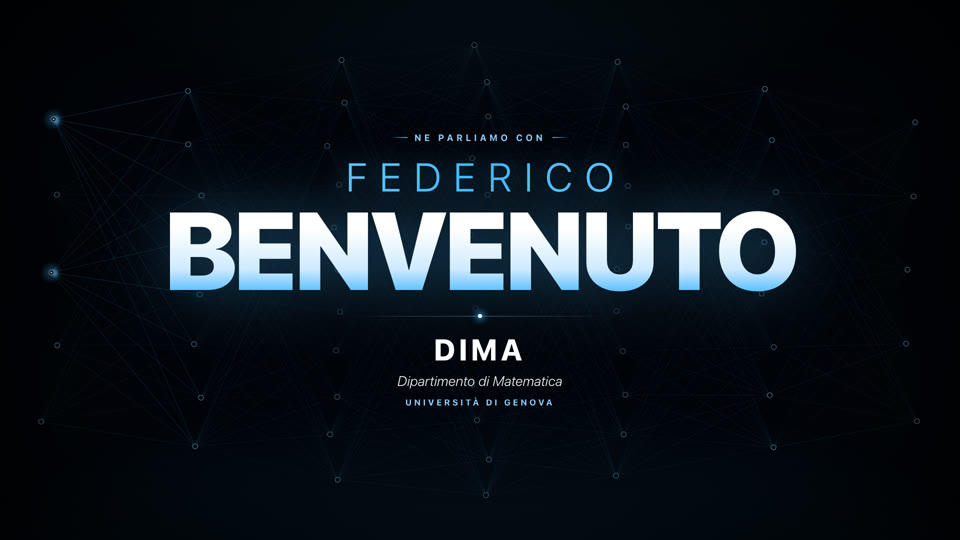
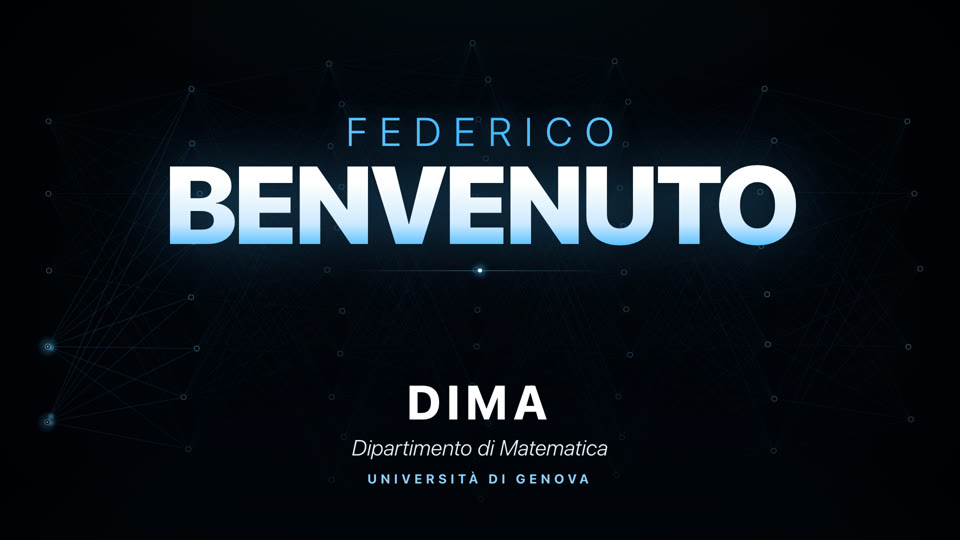
fix: slide intervistati senza occhiello, afferenza in basso e più grande
Tolto «Ne parliamo con»; il nome sale e dipartimento, nome per esteso e
università passano in basso, più grandi, su un fondo scurito che tiene la
rete neurale lontana dal testo. Anteprime aggiornate.

diff --git a/ospite.html b/ospite.html
@@ -20,7 +20,9 @@
     #sky { position: absolute; inset: 0; width: 100%; height: 100%; display: block; }
     .scrim {
       position: absolute; inset: 0; pointer-events: none;
-      background: radial-gradient(50% 44% at 50% 50%, rgba(2,4,11,0.86) 0%, rgba(2,4,11,0.5) 55%, rgba(2,4,11,0) 100%);
+      background:
+        radial-gradient(50% 40% at 50% 38%, rgba(2,4,11,0.86) 0%, rgba(2,4,11,0.5) 55%, rgba(2,4,11,0) 100%),
+        radial-gradient(55% 30% at 50% 84%, rgba(2,4,11,0.92) 0%, rgba(2,4,11,0.6) 55%, rgba(2,4,11,0) 100%);
     }
     .vignette { position: absolute; inset: 0; pointer-events: none; box-shadow: inset 0 0 260px 80px rgba(0,0,0,0.75); }
 
@@ -28,21 +30,12 @@
       position: absolute; inset: 0; z-index: 3;
       display: flex; flex-direction: column; align-items: center; justify-content: center;
       text-align: center; padding: 0 clamp(16px, 4vw, 60px);
+      padding-bottom: clamp(140px, 26vh, 300px);          /* il nome sale, l'afferenza sta in basso */
     }
     @keyframes rise {
       from { opacity: 0; transform: translateY(24px); filter: blur(6px); }
       to   { opacity: 1; transform: translateY(0); filter: blur(0); }
     }
-
-    .eyebrow {
-      display: inline-flex; align-items: center; gap: 14px;
-      font-size: clamp(13px, 1.1vw, 18px); font-weight: 700; letter-spacing: 0.36em;
-      text-transform: uppercase; color: var(--accent-soft);
-      margin-bottom: clamp(18px, 3vh, 34px);
-      animation: rise 0.9s 0.1s cubic-bezier(0.16,1,0.3,1) both;
-    }
-    .eyebrow::before, .eyebrow::after { content: ''; width: 34px; height: 2px; background: linear-gradient(90deg, transparent, var(--accent)); }
-    .eyebrow::after { background: linear-gradient(90deg, var(--accent), transparent); }
 
     .who { margin: 0; line-height: 0.88; }
     .who .first {
@@ -84,25 +77,30 @@
     @keyframes grow { from { opacity: 0; transform: scaleX(0.2); } to { opacity: 1; transform: scaleX(1); } }
     @keyframes pulse { 0%,100% { opacity: 0.55; } 50% { opacity: 1; } }
 
+    /* ---------- Afferenza, in basso ---------- */
+    .aff {
+      position: absolute; left: 0; right: 0; bottom: clamp(56px, 10vh, 120px); z-index: 3;
+      text-align: center; padding: 0 clamp(16px, 4vw, 60px);
+    }
     .dept {
-      font-size: clamp(30px, 3.4vw, 60px); font-weight: 800; letter-spacing: 0.12em;
+      font-size: clamp(44px, 5vw, 96px); font-weight: 800; letter-spacing: 0.12em; line-height: 1;
       color: #fff; text-transform: uppercase;
       animation: rise 1s 1s cubic-bezier(0.16,1,0.3,1) both;
     }
     .dept-full {
-      margin-top: clamp(6px, 1vh, 12px);
-      font-size: clamp(16px, 1.6vw, 28px); font-weight: 300; font-style: italic; color: #e6ecf5;
+      margin-top: clamp(10px, 1.6vh, 18px);
+      font-size: clamp(20px, 2.3vw, 44px); font-weight: 300; font-style: italic; color: #e6ecf5;
       animation: rise 1s 1.15s cubic-bezier(0.16,1,0.3,1) both;
     }
     .uni {
-      margin-top: clamp(10px, 1.6vh, 18px);
-      font-size: clamp(12px, 1vw, 17px); font-weight: 700; letter-spacing: 0.3em;
+      margin-top: clamp(12px, 2vh, 24px);
+      font-size: clamp(15px, 1.45vw, 26px); font-weight: 700; letter-spacing: 0.3em;
       text-transform: uppercase; color: var(--accent-soft);
       animation: rise 1s 1.3s cubic-bezier(0.16,1,0.3,1) both;
     }
 
     @media (prefers-reduced-motion: reduce) {
-      .content *, .content *::after { animation: none !important; }
+      .content *, .content *::after, .aff * { animation: none !important; }
     }
 
     @media (max-aspect-ratio: 1/1) {
@@ -119,9 +117,11 @@
     <div class="vignette"></div>
 
     <div class="content">
-      <div class="eyebrow" id="eyebrow"></div>
       <h1 class="who"><span class="first" id="first"></span><span class="last" id="last"></span></h1>
       <div class="divider"></div>
+    </div>
+
+    <div class="aff">
       <div class="dept" id="dept"></div>
       <div class="dept-full" id="dept-full"></div>
       <div class="uni" id="uni"></div>
@@ -148,15 +148,14 @@
       benvenuto: { first: 'Federico', last: 'Benvenuto', dept: 'dima' }
     };
     const TXT = {
-      it: { eyebrow: 'Ne parliamo con', uni: 'Università di Genova' },
-      en: { eyebrow: 'In conversation with', uni: 'University of Genoa' }
+      it: { uni: 'Università di Genova' },
+      en: { uni: 'University of Genoa' }
     };
     const g = GUESTS[new URLSearchParams(location.search).get('id')] || GUESTS.rosasco;
     document.title = g.first + ' ' + g.last + ' — Geopolitica della AI';
 
     function renderTexts() {
       const t = TXT[lang];
-      document.getElementById('eyebrow').textContent   = t.eyebrow;
       document.getElementById('first').textContent     = g.first;
       document.getElementById('last').textContent      = g.last;
       document.getElementById('dept').textContent      = g.dept.toUpperCase();
